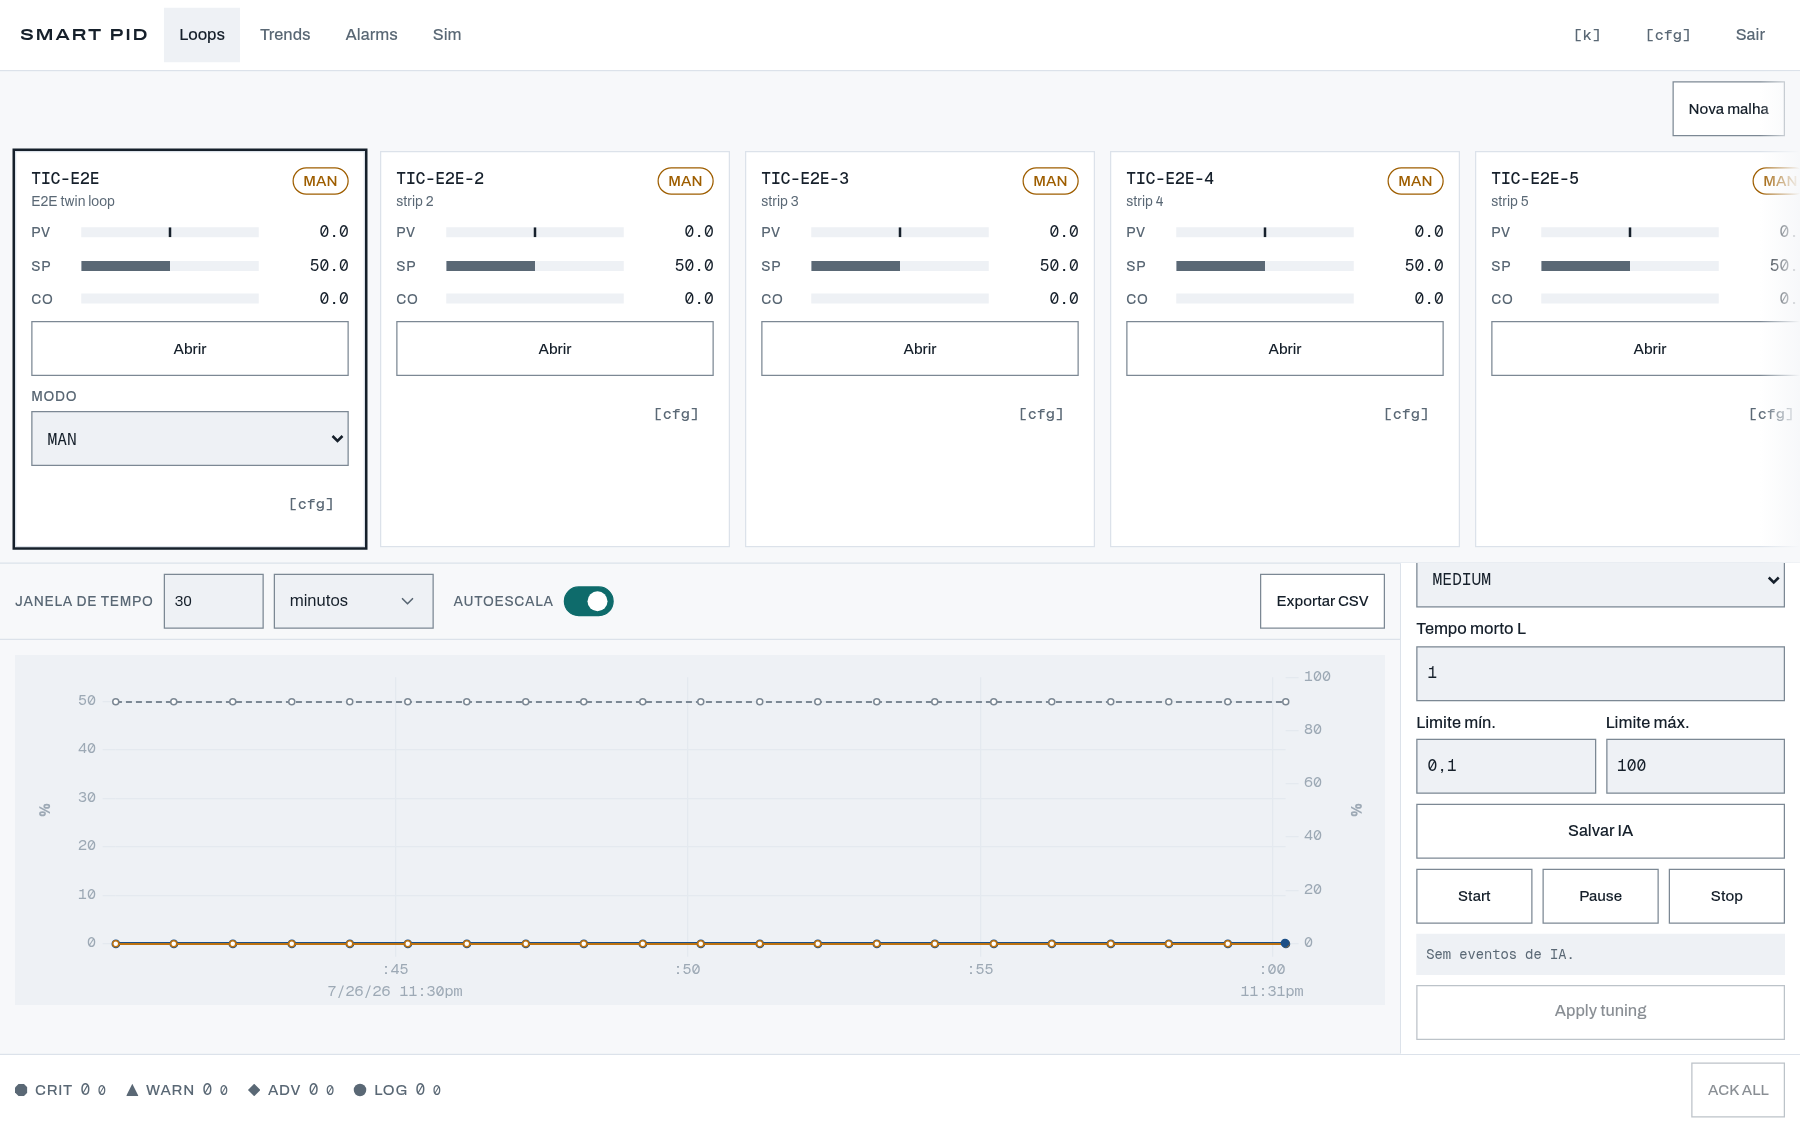
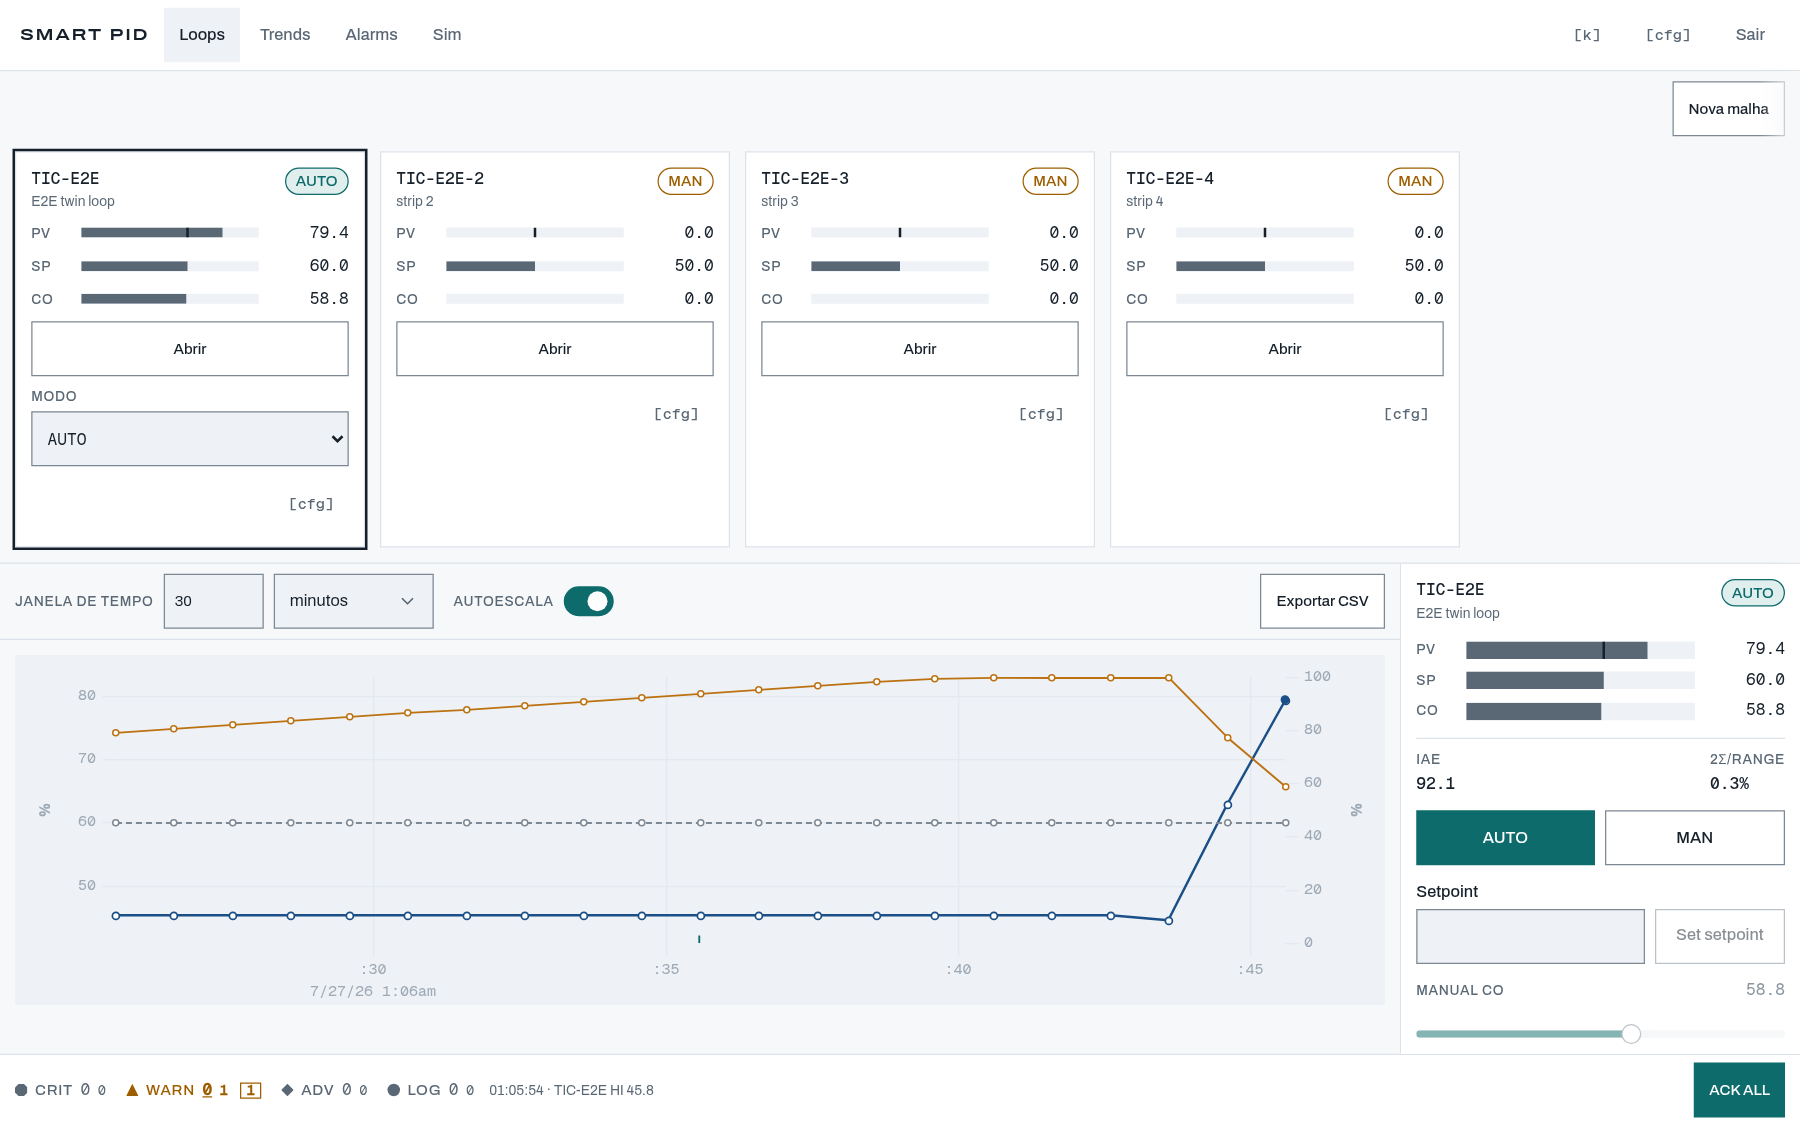
fix(core): let the AI see the loop mode it actually runs under
The optimizer never ran. _is_auto_mode() reads _last_mode, which the AI
worker took from TELEMETRY -- the io_worker copy sourced from the PLC Mode
node. That field is "UNKNOWN" whenever mode_int_map is unset, so the gate
never opened and every cycle was skipped silently; 120s of a live AUTO loop
produced zero tuning entries.

The PID worker already publishes the loop own authoritative mode on
STATUS.{id}. SmartPID owns the mode for a DDC loop, and for SUPERVISORY the
PID worker has synced it from telemetry, so STATUS is the correct source in
both cases. The AI worker now subscribes to it and prefers that value; the
PLC copy stays as a fallback. Same ownership inconsistency already fixed
for CO and SP.

Verified live: first tuning entry within 10s and the AI log streams
justifications. 142 AI/engine tests pass.

diff --git a/packages/smart_pid_core/src/smart_pid_core/application/workers/ai_worker.py b/packages/smart_pid_core/src/smart_pid_core/application/workers/ai_worker.py
@@ -194,6 +194,14 @@ class AIWorker:
         stats_sub = self._bus.create_subscriber(
             f"STATS.{self.controller_id}".encode()
         )
+        # The PID worker publishes the loop's OWN mode on STATUS. That is the
+        # authoritative value: for a DDC loop SmartPID owns the mode, and even
+        # for SUPERVISORY the PID worker has already synced it from telemetry.
+        # Relying on the TELEMETRY copy alone left the AI permanently skipped,
+        # because that field is UNKNOWN whenever mode_int_map is unset.
+        status_sub = self._bus.create_subscriber(
+            f"STATUS.{self.controller_id}".encode()
+        )
         pub = self._bus.create_publisher()
         time.sleep(0.02)
 
@@ -209,6 +217,9 @@ class AIWorker:
 
                 # Drain latest stats snapshot from StatsWorker
                 self._drain_stats(stats_sub)
+
+                # Authoritative loop mode from the PID worker
+                self._drain_status(status_sub)
 
                 # Check if it's time to run AI
                 now = time.monotonic()
@@ -423,6 +434,24 @@ class AIWorker:
         except Exception:
             logger.warning("rl_state_load_failed cid=%d", self.controller_id, exc_info=True)
 
+    def _drain_status(self, sub) -> None:  # noqa: ANN001
+        """Take the loop's authoritative mode from the PID worker's STATUS.
+
+        Overrides the PLC-sourced mode carried on TELEMETRY, which is UNKNOWN
+        whenever `mode_int_map` is unset and is the wrong owner for DDC loops.
+        """
+        while True:
+            msg = sub.recv(timeout_ms=0)
+            if msg is None:
+                break
+            _topic, payload = msg
+            try:
+                mode = msgpack.unpackb(payload).get("mode")
+                if mode:
+                    self._last_mode = mode
+            except Exception:  # noqa: BLE001 — a bad frame must not stop tuning
+                pass
+
     def _drain_telemetry(self, sub) -> None:
         while True:
             msg = sub.recv(timeout_ms=0)
@@ -438,7 +467,12 @@ class AIWorker:
                 self._last_sp = sp_raw["value"] if isinstance(sp_raw, dict) else float(sp_raw)
                 self._last_co = co_raw["value"] if isinstance(co_raw, dict) else float(co_raw)
                 self._last_integral = float(data.get("integral_val", 0.0))
-                self._last_mode = data.get("mode", "")
+                # PLC-sourced mode. Only trust it as a fallback: it is
+                # UNKNOWN whenever mode_int_map is unset, and for a DDC loop
+                # SmartPID owns the mode anyway. _drain_status() overrides
+                # this with the PID worker's authoritative value.
+                if not self._last_mode or self._last_mode == "UNKNOWN":
+                    self._last_mode = data.get("mode", "")
                 self._has_telemetry = True
 
                 # Always sync Ki/Ti from the latest OPC-UA read.
